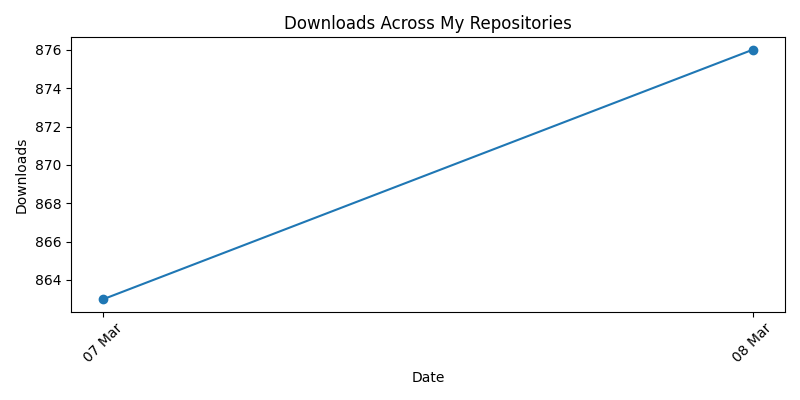
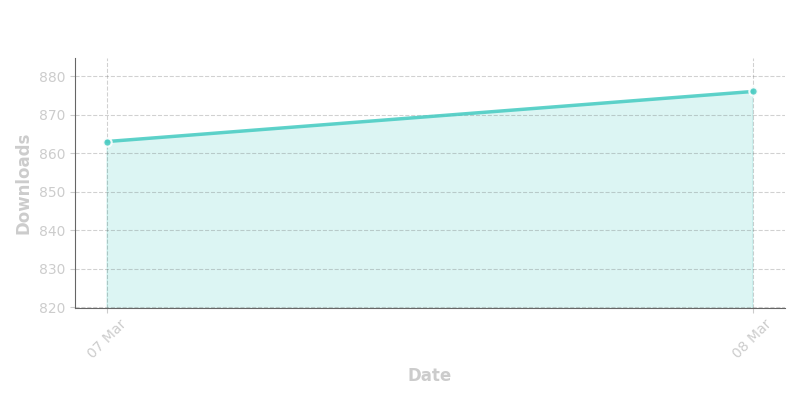
Change script to generate prettier dark theme chart and update chart

diff --git a/scripts/generate_total_downloads_chart.py b/scripts/generate_total_downloads_chart.py
@@ -48,16 +48,67 @@ def make_chart(points: list[DataPoint], output_path: str = "charts/downloads.png
 
     dates, totals = zip(*points)
 
-    plt.figure(figsize=(8, 4))
-
-    # datetime values are auto spaced
-    plt.plot(dates, totals, linestyle="solid", marker="o")
-    plt.title("Downloads Across My Repositories")
-    plt.ylabel("Downloads")
-    plt.xlabel("Date")
-
+    # create fig
+    fig = plt.figure(figsize=(8, 4))
     # get axes
     ax = plt.gca()
+
+    fig.patch.set_alpha(0)  # Transparent figure background
+    ax.set_facecolor('none')  # Transparent axes background
+
+    # Plot your data with professional styling
+    line = ax.plot(dates, totals, 
+            linestyle="solid", 
+            marker="o",
+            color='#4ECDC4',  # Nice turquoise that pops on dark
+            linewidth=2.5,
+            markersize=6,
+            markeredgewidth=1.5,
+            markeredgecolor='white',  # White border makes markers pop
+            markerfacecolor='#4ECDC4',
+            alpha=0.9)
+
+    # Style the title
+    ax.set_title("Downloads Across My Repositories", 
+                color='white', 
+                fontsize=14, 
+                fontweight='bold', 
+                pad=20)
+
+    # Style the labels
+    ax.set_ylabel("Downloads", 
+                color='#CCCCCC', 
+                fontsize=12, 
+                fontweight='semibold')
+    ax.set_xlabel("Date", 
+                color='#CCCCCC', 
+                fontsize=12, 
+                fontweight='semibold')
+
+    # Style the axes
+    ax.spines['top'].set_visible(False)
+    ax.spines['right'].set_visible(False)
+    ax.spines['bottom'].set_color('#666666')
+    ax.spines['left'].set_color('#666666')
+
+    # Style the ticks
+    ax.tick_params(axis='both', 
+                colors='#CCCCCC', 
+                labelsize=10)
+
+    # Add a light grid
+    ax.grid(True, 
+            linestyle='--', 
+            alpha=0.3, 
+            color='#666666')
+
+    # Optional: Add some fill below the line for visual interest
+    ax.fill_between(dates, totals, 
+                    alpha=0.2, 
+                    color='#4ECDC4')
+
+    # start y axis slighly before first total
+    ax.set_ylim(bottom=min(totals) * 0.95, top=max(totals)*1.01)
     
     # place exactly 5 ticks evenly from first to last date to guarantee endpoints
     if len(dates) > 5:
